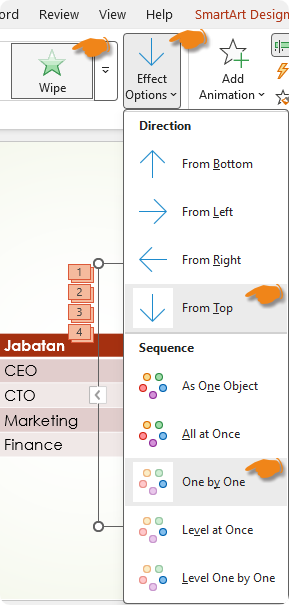
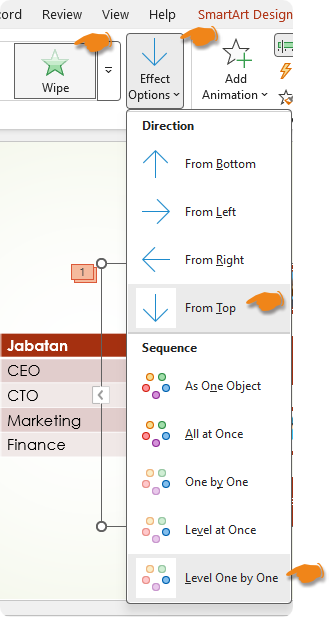
M

Changed region(s): [[0.0, 0.0, 1.0, 1.0], [0.5586, 0.4165, 0.8379, 0.4463], [0.0, 0.0, 0.0621, 0.0298]]

diff --git a/materi-powerpoint.html b/materi-powerpoint.html
@@ -3772,11 +3772,10 @@
                                   <div class="col-md-6">
                                     <strong>Animation</strong>:
                                     <ul>
-                                      <li>Judul: <strong>Fade</strong>, <i class="bi bi-mouse2"></i>
-                                        Start On Click</li>
+                                      <li>Judul: <strong>Fade</strong>, <i class="bi bi-mouse2"></i> Start On Click</li>
                                       <li>Diagram: <strong>Wipe</strong>, <i class="bi bi-clock-history"></i>
                                         Start After Previous</li>
-                                      <li>Content: <strong>Wipe</strong> → <strong>Effect Options</strong> → <strong>One
+                                      <li>Content: <strong>Wipe</strong> → <strong>Effect Options</strong> → <strong>Level One
                                           by One</strong>, <i class="bi bi-clock-history"></i>
                                         Start After Previous.
                                         <div class="my-3">
@@ -3795,7 +3794,7 @@
                               </li>
 
 
-                              <li>
+                              <!-- <li>
                                 <strong>Slide 6 — Tim Kami</strong>
                                 <div class="row mt-2">
                                   <div class="col-md-6">
@@ -3812,7 +3811,6 @@
                                             </div>
                                           </li>
 
-
                                           <li><strong>Insert → <strong>Table</strong></strong>
                                             <div class="my-2 mb-3">
                                               <img src="assets/img/insert-table-tim-kami.png" alt=""
@@ -3826,16 +3824,14 @@
                                             </ul>
                                             <p>Isi data seperti contoh gambar Slide</p>
                                           </li>
-
-
                                           <li><strong>Animation</strong>:
                                             <ul>
-                                              <li>Judul: <strong>Fade</strong>, <i class="bi bi-clock-history"></i>
-                                                Start After Previous</li>
+                                              <li>Judul: <strong>Fade</strong>, <i class="bi bi-mouse2"></i> Start On Click</li>
                                               <li>Diagram: <strong>Wipe</strong>, <i class="bi bi-clock-history"></i>
                                                 Start After Previous</li>
-                                              <li>Content: <strong>Wipe</strong>, <i class="bi bi-clock-history"></i>
-                                                Start With Previous</li>
+                                              <li>Content: <strong>Wipe</strong> → <strong>Effect Options</strong> → <strong>Level One
+                                          by One</strong>, <i class="bi bi-clock-history"></i>
+                                        Start After Previous.</li>
                                             </ul>
                                             <div class="my-3">
                                               <img src="assets/img/Slide6-animation-pane.png" alt=""
@@ -3851,7 +3847,8 @@
                                   </div>
                                 </div>
                                 <hr>
-                              </li>
+                              </li> -->
+
                               <li>
                                 <strong>Slide 7 — Call to Action</strong>
                                 <div class="row">
